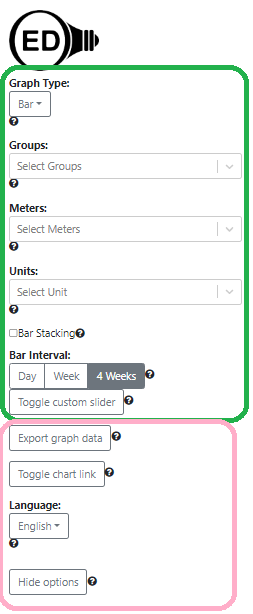
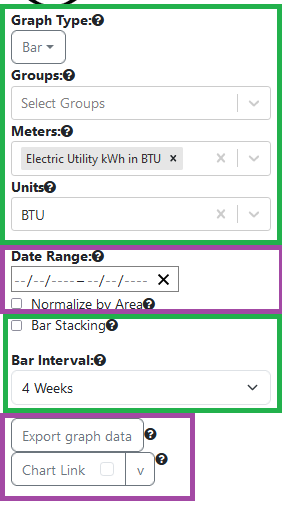
update fewer options

diff --git a/simplifyOptions/fewerOptions.md b/simplifyOptions/fewerOptions.md
@@ -12,19 +12,17 @@ became a dropdown menu:
 
 ![new graph type buttons](./OEDGraphicChoicesNew.png)
 
-A similar change was made to the page choices in the top, right of the OED screen that went from buttons to a dropdown menu due to the growing number of choices (this is about to be incorporated into OED as of April 2023). In both these cases, the growing number of buttons led to formatting issues.
+A similar change was made to the page choices in the top, right of the OED screen that went from buttons to a dropdown menu due to the growing number of choices. In both these cases, the growing number of buttons led to formatting issues.
 
-Another place where the number of choices has increased is options on the left side of the OED screen on the graphic pages. The basic idea of the proposed changes is to move less used options to a modal popup, esp. since OED went to a modal look with version 1.0.
+Another place where the number of choices has increased is options on the left side of the OED screen on the graphic pages. The basic idea of the proposed changes is to move less used options to a modal popup, esp. since OED went to a modal look with version 1.0. This is covered by [issue #900](https://github.com/OpenEnergyDashboard/OED/issues/900).
 
 ## Overview of change
 
-The OED line graphic page currently has these options on the left:
+The OED line graphic page currently has these options on the left where some are not always visible:
 
 ![line graphic page options](./linePageOptions.png)
 
-The items in the green rectangle will remain on the page as is. The items in the pink rectangle will move to a modal popup. An additional button will be placed below the green rectangle area that will say "More options" (in English and to be internationalized as are all the strings described that are shown to the user). When this is clicked, the modal popup with the moved items will appear. There should be a new help icon for this button (OED will provide the needed text so the implementor can put something short for the help popup that indicates the text is needed.) This modal will also have a "Close" button at the bottom to close the modal.
-
-Note the "Hide options" button does not hide this modal but hides all the options on the left so it will remain as a separate button.
+The items in the green rectangle will remain on the page as is. The items in the purple rectangle will move to a modal popup. An additional button will be placed below the green rectangle area that will say "More options" (in English and to be internationalized as are all the strings described that are shown to the user). When this is clicked, the modal popup with the moved items will appear. There should be a new help icon for this button (OED will provide the needed text so the implementor can put something short for the help popup that indicates the text is needed.) This modal will also have a "Close" button at the bottom to close the modal.
 
 The bar graphic page will be similar as shown in this image:
 
@@ -38,32 +36,12 @@ The map graphic page will be similar as shown in this image:
 
 ![map graphic page options](./mapPageOptions.png)
 
-The other pages do not have options so they are unchanged. This is [issue #900](https://github.com/OpenEnergyDashboard/OED/issues/900).
+The 3D graphic page will be similar as shown in this image and note the Date Range does remain because 3D limits the allow range:
 
-## React hooks
+![3D graphic page options](./threeDPageOptions.png)
 
-OED has been transitioning to the newer React Hooks for all new/edited pages. All the pages touched by these changes should be converted. They will use useSelect, useState and useEffect as needed. The paired Containers will be eliminated in doing this.
+The radar graphic page will be similar as shown in this image:
 
-The Components/Containers that are known to be involved in this work are:
+![radar graphic page options](./radarPageOptions.png)
 
-- src/client/app/components/GraphicRateMenuComponent.tsx is already a function with hooks and a guide for some of the others.
-- src/client/app/components/ExportComponent.tsx already changed/guide.
-- src/client/app/components/ChartDataSelectComponent.tsx already uses hooks.
-- src/client/app/components/MultiSelectComponent.tsx does not have a Container but is still a class. Should look into converting to a function style (assuming that is appropriate/works).
-- src/client/app/components/groups/DatasourceBoxComponent.tsx and the paired src/client/app/containers/groups/DatasourceBoxContainer.ts.
-- src/client/app/components/ChartLinkComponent.tsx & src/client/app/containers/ChartLinkContainer.ts.
-- src/client/app/components/LanguageSelectorComponent.tsx & src/client/app/containers/LanguageSelectorContainer.ts.
-- src/client/app/components/UIOptionsComponent.tsx & src/client/app/containers/UIOptionsContainer.ts.
-- src/client/app/components/MapChartSelectComponent.tsx seems to be converted.
-
-It is possible that some of these are included in other pages so they should be checked and updated if needed (or you want to do that).
-
-The following OED pages have already been converted and can serve as guides:
-
-- src/client/app/components/units/ on several pages
-- src/client/app/components/conversions/ on several pages
-- src/client/app/components/meters/ on several pages
-- src/client/app/components/groups/ on several pages
-- src/client/app/components/admin/users/* but they do not deal with state
-
-Others may be converted by the time this work is done.
+This is [issue #900](https://github.com/OpenEnergyDashboard/OED/issues/900).
